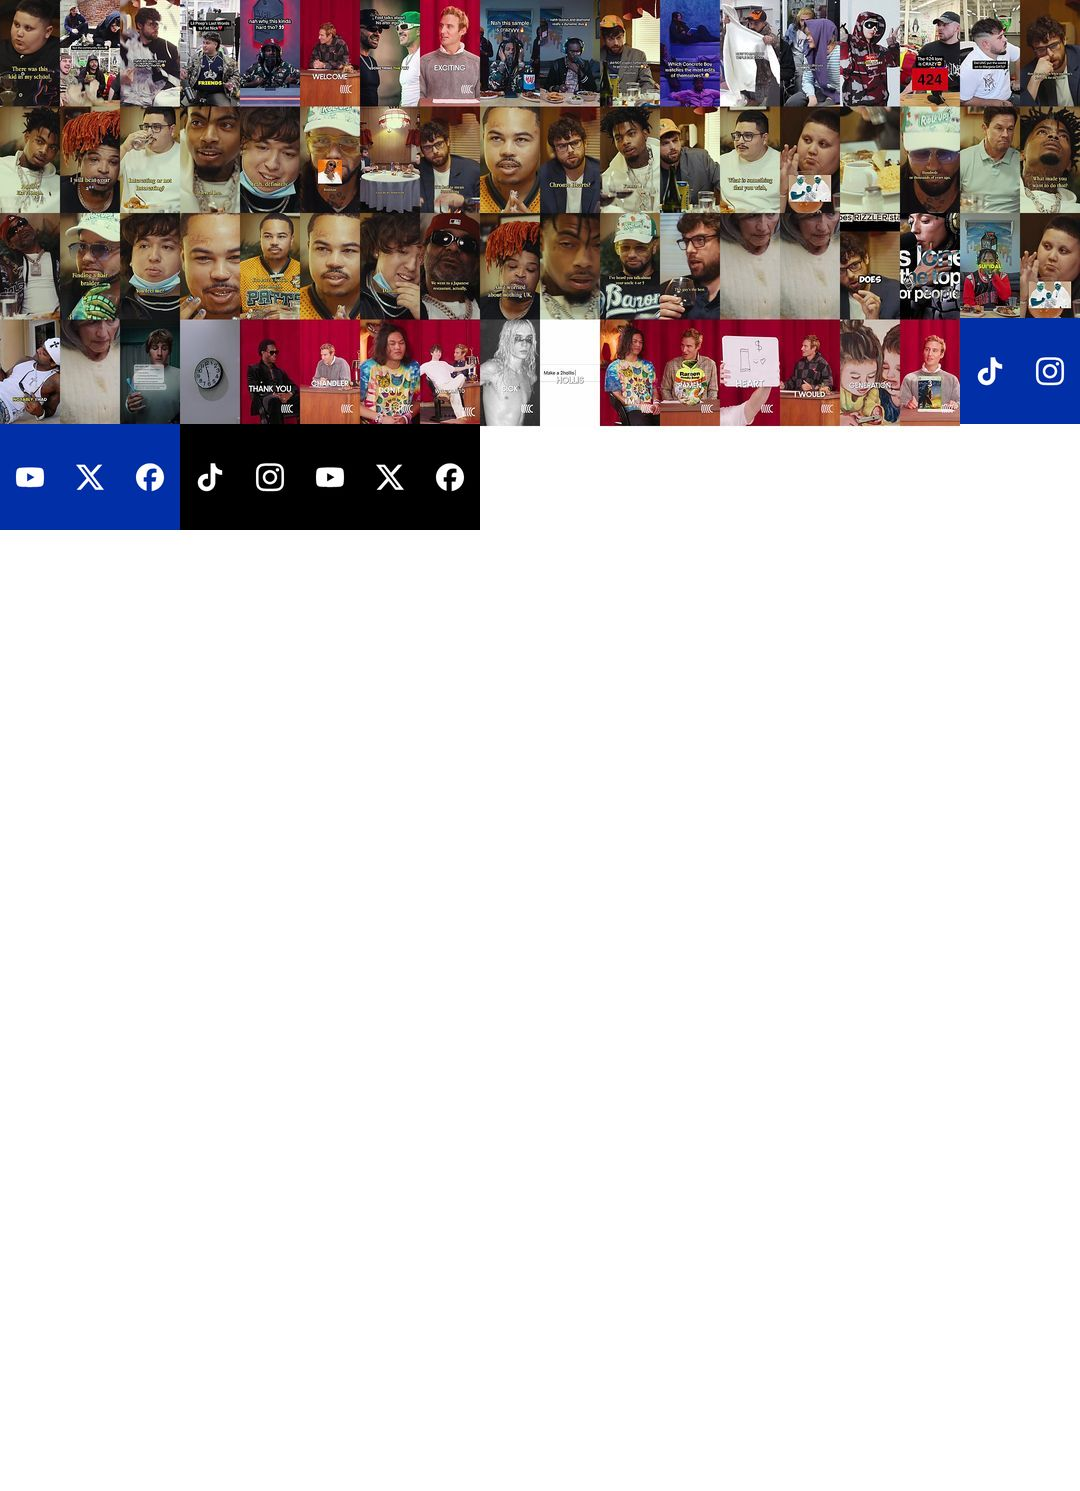
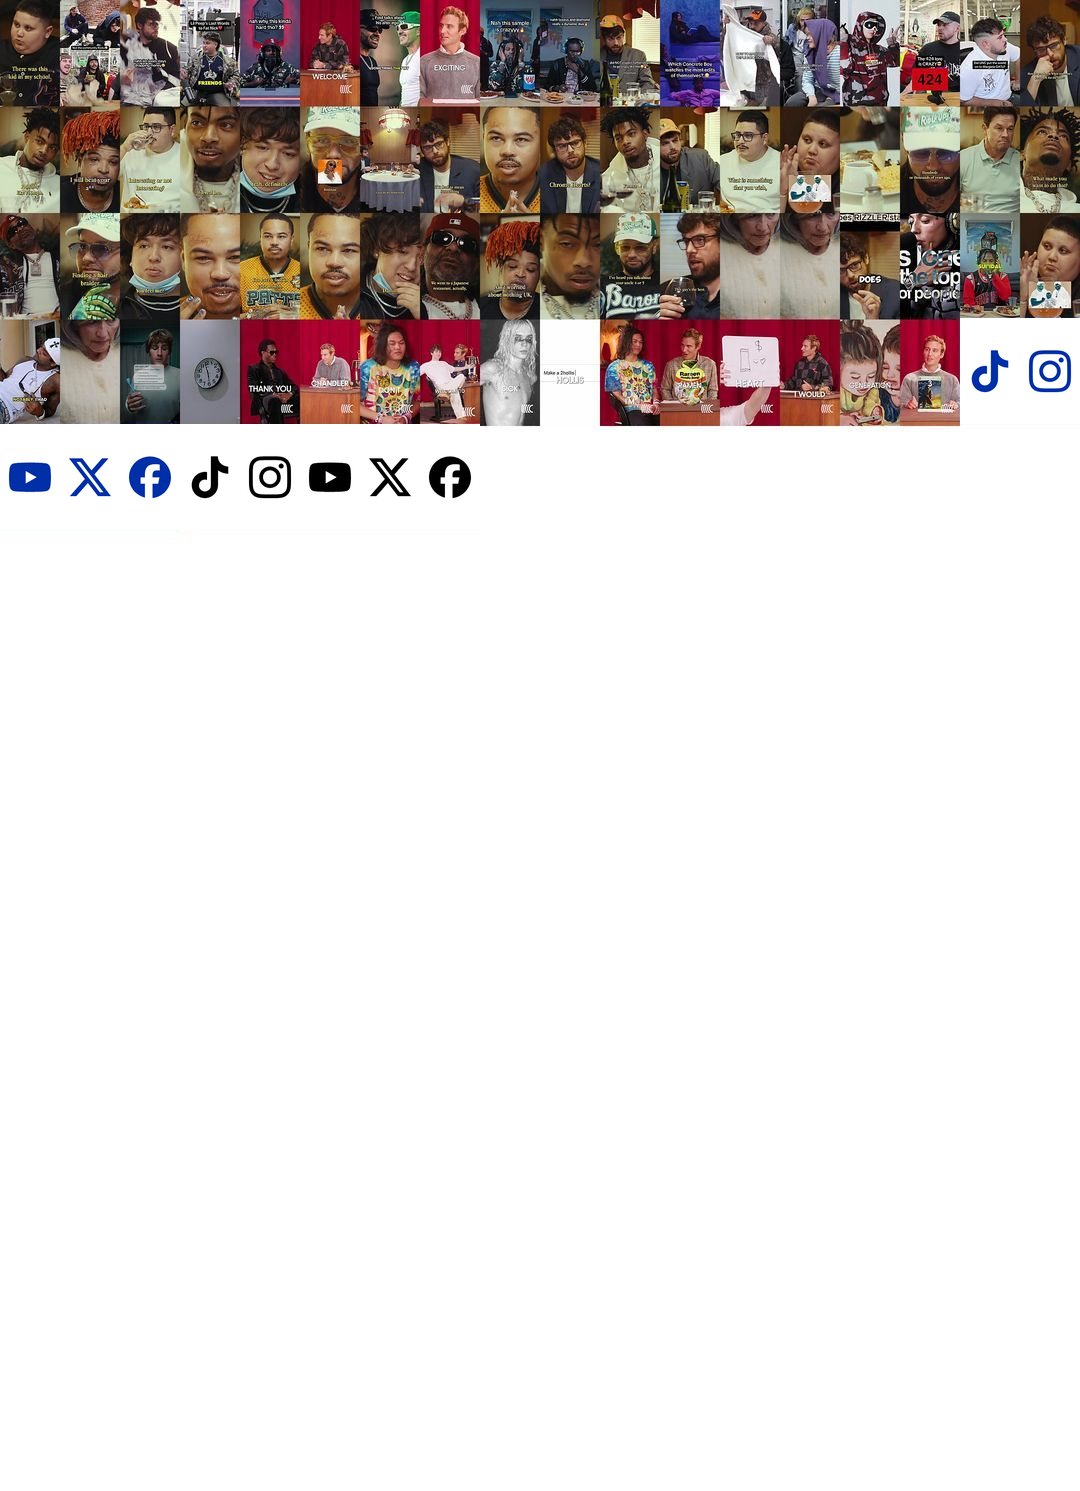
Floating social marks with subtle pulses between them

Changed region(s): [[0.0, 0.2777, 0.4583, 0.3702], [0.8861, 0.216, 1.0, 0.3085]]

diff --git a/index.html b/index.html
@@ -87,11 +87,11 @@ renderer.setClearColor(0xffffff,0);
 var calm=matchMedia('(prefers-reduced-motion: reduce)').matches;
 var scene=new THREE.Scene(),cam=new THREE.PerspectiveCamera(26,1,.1,100);cam.position.z=9;
 var tilt=new THREE.Group(),globe=new THREE.Group();tilt.rotation.z=-.3;tilt.rotation.x=.16;tilt.add(globe);scene.add(tilt);
-var U={uReveal:{value:0},uK:{value:.76},uMode:{value:0},uGhost:{value:.78},uDim:{value:0},uCounter:{value:0},uAtlas:{value:null},uAtlasOn:{value:0}};
+var U={uReveal:{value:0},uK:{value:.76},uMode:{value:0},uGhost:{value:.78},uDim:{value:0},uCounter:{value:0},uAtlas:{value:null},uAtlasOn:{value:0},uIcon:{value:VIDS.length}};
 var VS='attribute float aSeed;attribute float aDir;attribute vec2 aTile;uniform float uCounter;varying vec2 vT;varying vec2 vUv;varying vec3 vN;varying float vS;void main(){vT=aTile;vUv=uv;vS=aSeed;vec3 P=position,M=normal;if(aDir>.5){float s=sin(uCounter),c=cos(uCounter);P=vec3(c*P.x+s*P.z,P.y,-s*P.x+c*P.z);M=vec3(c*M.x+s*M.z,M.y,-s*M.x+c*M.z);}vN=normalize(normalMatrix*M);gl_Position=projectionMatrix*modelViewMatrix*vec4(P,1.);}';
 var LIGHT='float l=.86+.2*max(dot(N,normalize(vec3(-.4,.55,.75))),0.);vec3 R=reflect(vec3(0.,0.,-1.),N);float sp=pow(max(dot(R,normalize(vec3(-.4,.55,.75))),0.),40.);';
 var NOISE='float n=fract(sin(dot(floor(vUv*vec2(16.,28.))+vS*91.,vec2(12.9898,78.233)))*43758.5453);if(vS*.72+n*.28>uReveal)discard;';
-var FS='uniform sampler2D map,uAtlas;varying vec2 vT;uniform float uAtlasOn,uDim,uReveal,uK,uMode,uGhost;varying vec2 vUv;varying vec3 vN;varying float vS;void main(){bool ff=gl_FrontFacing;vec3 N=ff?vN:-vN;vec2 q=(vUv-.5)/uK+.5;if(!ff)q.x=1.-q.x;vec2 s=vec2(.5625,1.);vec2 p=(q-.5)*s;float r=.05;vec2 b=s*.5-r;float d=length(max(abs(p)-b,0.))-r;if(d>0.)discard;'+NOISE+'vec2 tc=(vT+clamp(q,.012,.988))/vec2(18.,14.);vec3 c=texture2D(map,tc).rgb;float mo=uAtlasOn*smoothstep(.74,.93,N.z)*step(vS,.42);if(ff&&mo>.001)c=mix(c,texture2D(uAtlas,tc).rgb,mo);'+LIGHT+'if(uMode>1.5&&uMode<2.5){vec2 g=q*vec2(22.,39.1);vec3 t=texture2D(map,(floor(g)+.5)/vec2(22.,39.1)).rgb;float y=dot(t,vec3(.3,.59,.11));float on=step(length(fract(g)-.5),.14+.36*(1.-y));float m=ff?smoothstep(.62,.9,N.z):0.;if(on<.5&&m<.02)discard;c=mix(vec3(0.,.184,.655),c,m);if(on<.5)c=mix(vec3(1.),c,m);}else{c*=l;c+=sp*.14;}if(!ff)c=mix(c,vec3(1.),uGhost);c=mix(c,vec3(1.),uDim);gl_FragColor=vec4(c,1.);}';
+var FS='uniform sampler2D map,uAtlas;varying vec2 vT;uniform float uIcon,uAtlasOn,uDim,uReveal,uK,uMode,uGhost;varying vec2 vUv;varying vec3 vN;varying float vS;void main(){bool ff=gl_FrontFacing;vec3 N=ff?vN:-vN;vec2 q=(vUv-.5)/uK+.5;if(!ff)q.x=1.-q.x;vec2 s=vec2(.5625,1.);vec2 p=(q-.5)*s;float r=.05;vec2 b=s*.5-r;float d=length(max(abs(p)-b,0.))-r;if(d>0.)discard;'+NOISE+'vec2 tc=(vT+clamp(q,.012,.988))/vec2(18.,14.);vec3 c=texture2D(map,tc).rgb;if(floor(vT.x+.5)+floor(13.-vT.y+.5)*18.>=uIcon-.5&&dot(c,vec3(.3,.59,.11))>.7)discard;float mo=uAtlasOn*smoothstep(.74,.93,N.z)*step(vS,.42);if(ff&&mo>.001)c=mix(c,texture2D(uAtlas,tc).rgb,mo);'+LIGHT+'if(uMode>1.5&&uMode<2.5){vec2 g=q*vec2(22.,39.1);vec3 t=texture2D(map,(floor(g)+.5)/vec2(22.,39.1)).rgb;float y=dot(t,vec3(.3,.59,.11));float on=step(length(fract(g)-.5),.14+.36*(1.-y));float m=ff?smoothstep(.62,.9,N.z):0.;if(on<.5&&m<.02)discard;c=mix(vec3(0.,.184,.655),c,m);if(on<.5)c=mix(vec3(1.),c,m);}else{c*=l;c+=sp*.14;}if(!ff)c=mix(c,vec3(1.),uGhost);c=mix(c,vec3(1.),uDim);gl_FragColor=vec4(c,1.);}';
 var FSC='uniform float uReveal;varying vec2 vUv;varying vec3 vN;varying float vS;void main(){vec3 N=vN;'+NOISE+''+LIGHT+'vec3 c=vec3(.9+.11*max(dot(N,normalize(vec3(-.4,.55,.75))),0.));c*=1.-pow(1.-max(N.z,0.),3.)*.16;gl_FragColor=vec4(c,1.);}';
 var FSG='uniform float uReveal;varying vec3 vN;void main(){vec3 N=vN;'+LIGHT+'float f=pow(1.-max(N.z,0.),2.6);float a=(f*.5+sp*.75)*min(uReveal,1.);gl_FragColor=vec4(mix(vec3(.62,.72,.9),vec3(1.),sp),a);}';
 var core=new THREE.SphereGeometry(.982,64,48);var cs=new Float32Array(core.attributes.position.count);for(var q=0;q<cs.length;q++)cs[q]=.35;core.setAttribute('aSeed',new THREE.BufferAttribute(cs,1));
@@ -138,9 +138,15 @@ geo.setAttribute('aTile',new THREE.Float32BufferAttribute(B0.tl,2));
 geo.setIndex(B0.idx);
 var still=new THREE.TextureLoader().load(PH?'globe-still-m.jpg':'globe-still.jpg',function(){stillReady=true;t0=performance.now();});
 still.anisotropy=PH?1:Math.min(8,renderer.capabilities.getMaxAnisotropy());
-globe.add(new THREE.Mesh(geo,new THREE.ShaderMaterial({vertexShader:VS,fragmentShader:FS,side:THREE.DoubleSide,uniforms:{map:{value:still},uReveal:U.uReveal,uK:U.uK,uMode:U.uMode,uGhost:U.uGhost,uDim:U.uDim,uCounter:U.uCounter,uAtlas:U.uAtlas,uAtlasOn:U.uAtlasOn}})));
+globe.add(new THREE.Mesh(geo,new THREE.ShaderMaterial({vertexShader:VS,fragmentShader:FS,side:THREE.DoubleSide,uniforms:{map:{value:still},uReveal:U.uReveal,uK:U.uK,uMode:U.uMode,uGhost:U.uGhost,uDim:U.uDim,uCounter:U.uCounter,uAtlas:U.uAtlas,uAtlasOn:U.uAtlasOn,uIcon:U.uIcon}})));
 var gv=null,gT=null,lastUp=0;
 function startLoop(){var c=navigator.connection;if((c&&c.saveData)||(navigator.deviceMemory&&navigator.deviceMemory<3))return;gv=document.createElement('video');gv.muted=true;gv.loop=true;gv.playsInline=true;gv.setAttribute('playsinline','');gv.preload='auto';gv.playbackRate=.8;gv.defaultPlaybackRate=.8;gv.src='globe-loop.mp4';gv.addEventListener('canplay',function once(){gv.removeEventListener('canplay',once);var tx=new THREE.Texture(gv);tx.minFilter=THREE.LinearFilter;tx.magFilter=THREE.LinearFilter;tx.generateMipmaps=false;tx.format=THREE.RGBFormat;var p=gv.play();if(p&&p.then)p.then(function(){gT=tx;U.uAtlas.value=tx;}).catch(function(){});else{gT=tx;U.uAtlas.value=tx;}});gv.load();}
+var PV='attribute float aT;varying float vP;varying float vF;void main(){vP=aT;vF=normalize(normalMatrix*position).z;gl_Position=projectionMatrix*modelViewMatrix*vec4(position,1.);}';
+var PF='uniform float uH,uFade;varying float vP;varying float vF;void main(){float d=uH-vP;if(d<0.)discard;float a=(1.-smoothstep(0.,.24,d))*smoothstep(-.15,.45,vF)*uFade*.85;gl_FragColor=vec4(0.,.184,.655,a);}';
+var iconC=centers.filter(function(c){return c.img>=VIDS.length;}),arcs=[];
+iconC.forEach(function(a,i){iconC.map(function(b,j){return{j:j,d:a.v.angleTo(b.v)};}).filter(function(o){return o.j>i;}).sort(function(x,y){return x.d-y.d;}).slice(0,2).forEach(function(o){var b=iconC[o.j],n=48,P=[],T=[],ang=Math.max(o.d,.001);for(var k=0;k<=n;k++){var f=k/n,s=Math.sin(ang),A=Math.sin((1-f)*ang)/s,B=Math.sin(f*ang)/s;P.push((a.v.x*A+b.v.x*B)*1.01,(a.v.y*A+b.v.y*B)*1.01,(a.v.z*A+b.v.z*B)*1.01);T.push(f);}var g=new THREE.BufferGeometry();g.setAttribute('position',new THREE.Float32BufferAttribute(P,3));g.setAttribute('aT',new THREE.Float32BufferAttribute(T,1));var m=new THREE.ShaderMaterial({vertexShader:PV,fragmentShader:PF,transparent:true,depthWrite:false,uniforms:{uH:{value:0},uFade:{value:0}}});var l=new THREE.Line(g,m);l.visible=false;l.renderOrder=5;globe.add(l);arcs.push(l);});});
+var pulses=[],pCount=PH?2:3;for(var pi=0;pi<pCount;pi++)pulses.push({l:null,t:-pi*1.5});
+function stepPulses(dt){if(!arcs.length)return;pulses.forEach(function(p){p.t+=dt;if(p.t<0)return;if(!p.l){p.l=arcs[Math.floor(Math.random()*arcs.length)];p.l.visible=true;}var u=p.l.material.uniforms,D=3.4,f=p.t/D;u.uH.value=f*1.24;u.uFade.value=Math.min(1,f*5)*Math.min(1,(1-f)*5);if(f>=1){p.l.visible=false;p.l=null;p.t=-(.6+Math.random()*1.6);}});}
 var W,H,wpp,lastDraw=0;
 function layout(){
   W=innerWidth;H=innerHeight;renderer.setPixelRatio(Math.min(devicePixelRatio||1,PH?1.5:2));renderer.setSize(W,H,false);
@@ -211,6 +217,7 @@ function frame(now){
   globe.rotation.y=spin+(forceT!==null?forceT*.3:0);
   kCounter+=((counterOn?1:0)-kCounter)*Math.min(1,dt*3);if(forceT!==null)kCounter=counterOn?1:0;
   U.uCounter.value=-1.75*globe.rotation.y*kCounter;
+  if(t>4.4&&!calm)stepPulses(dt);
   renderer.render(scene,cam);
   requestAnimationFrame(frame);
 }
